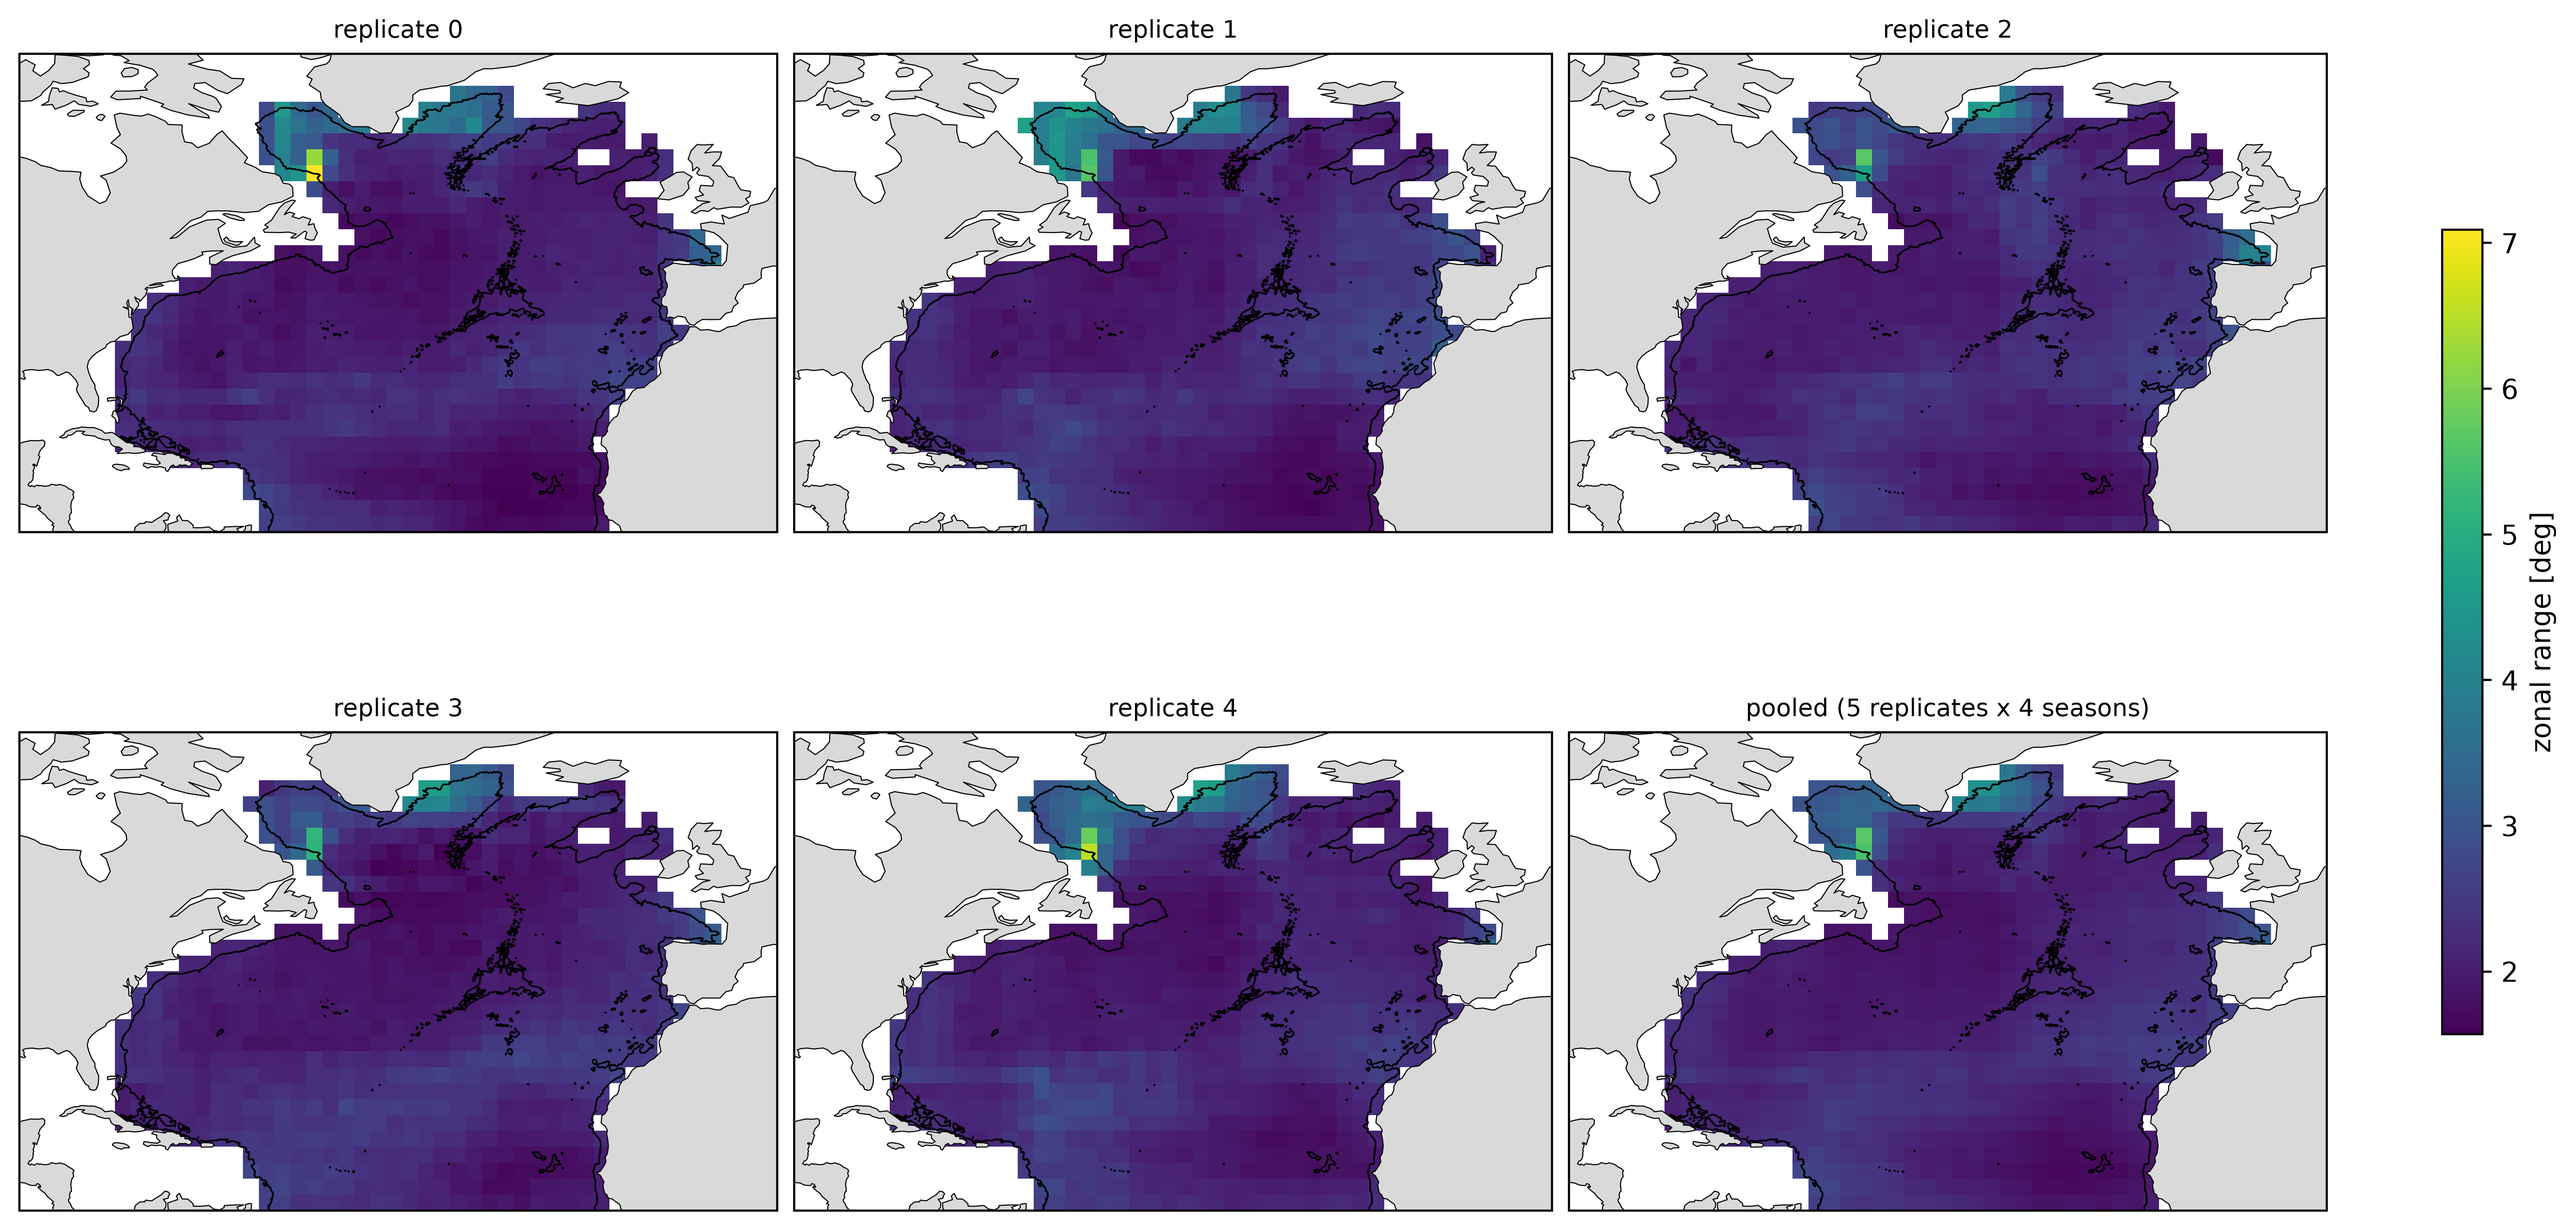
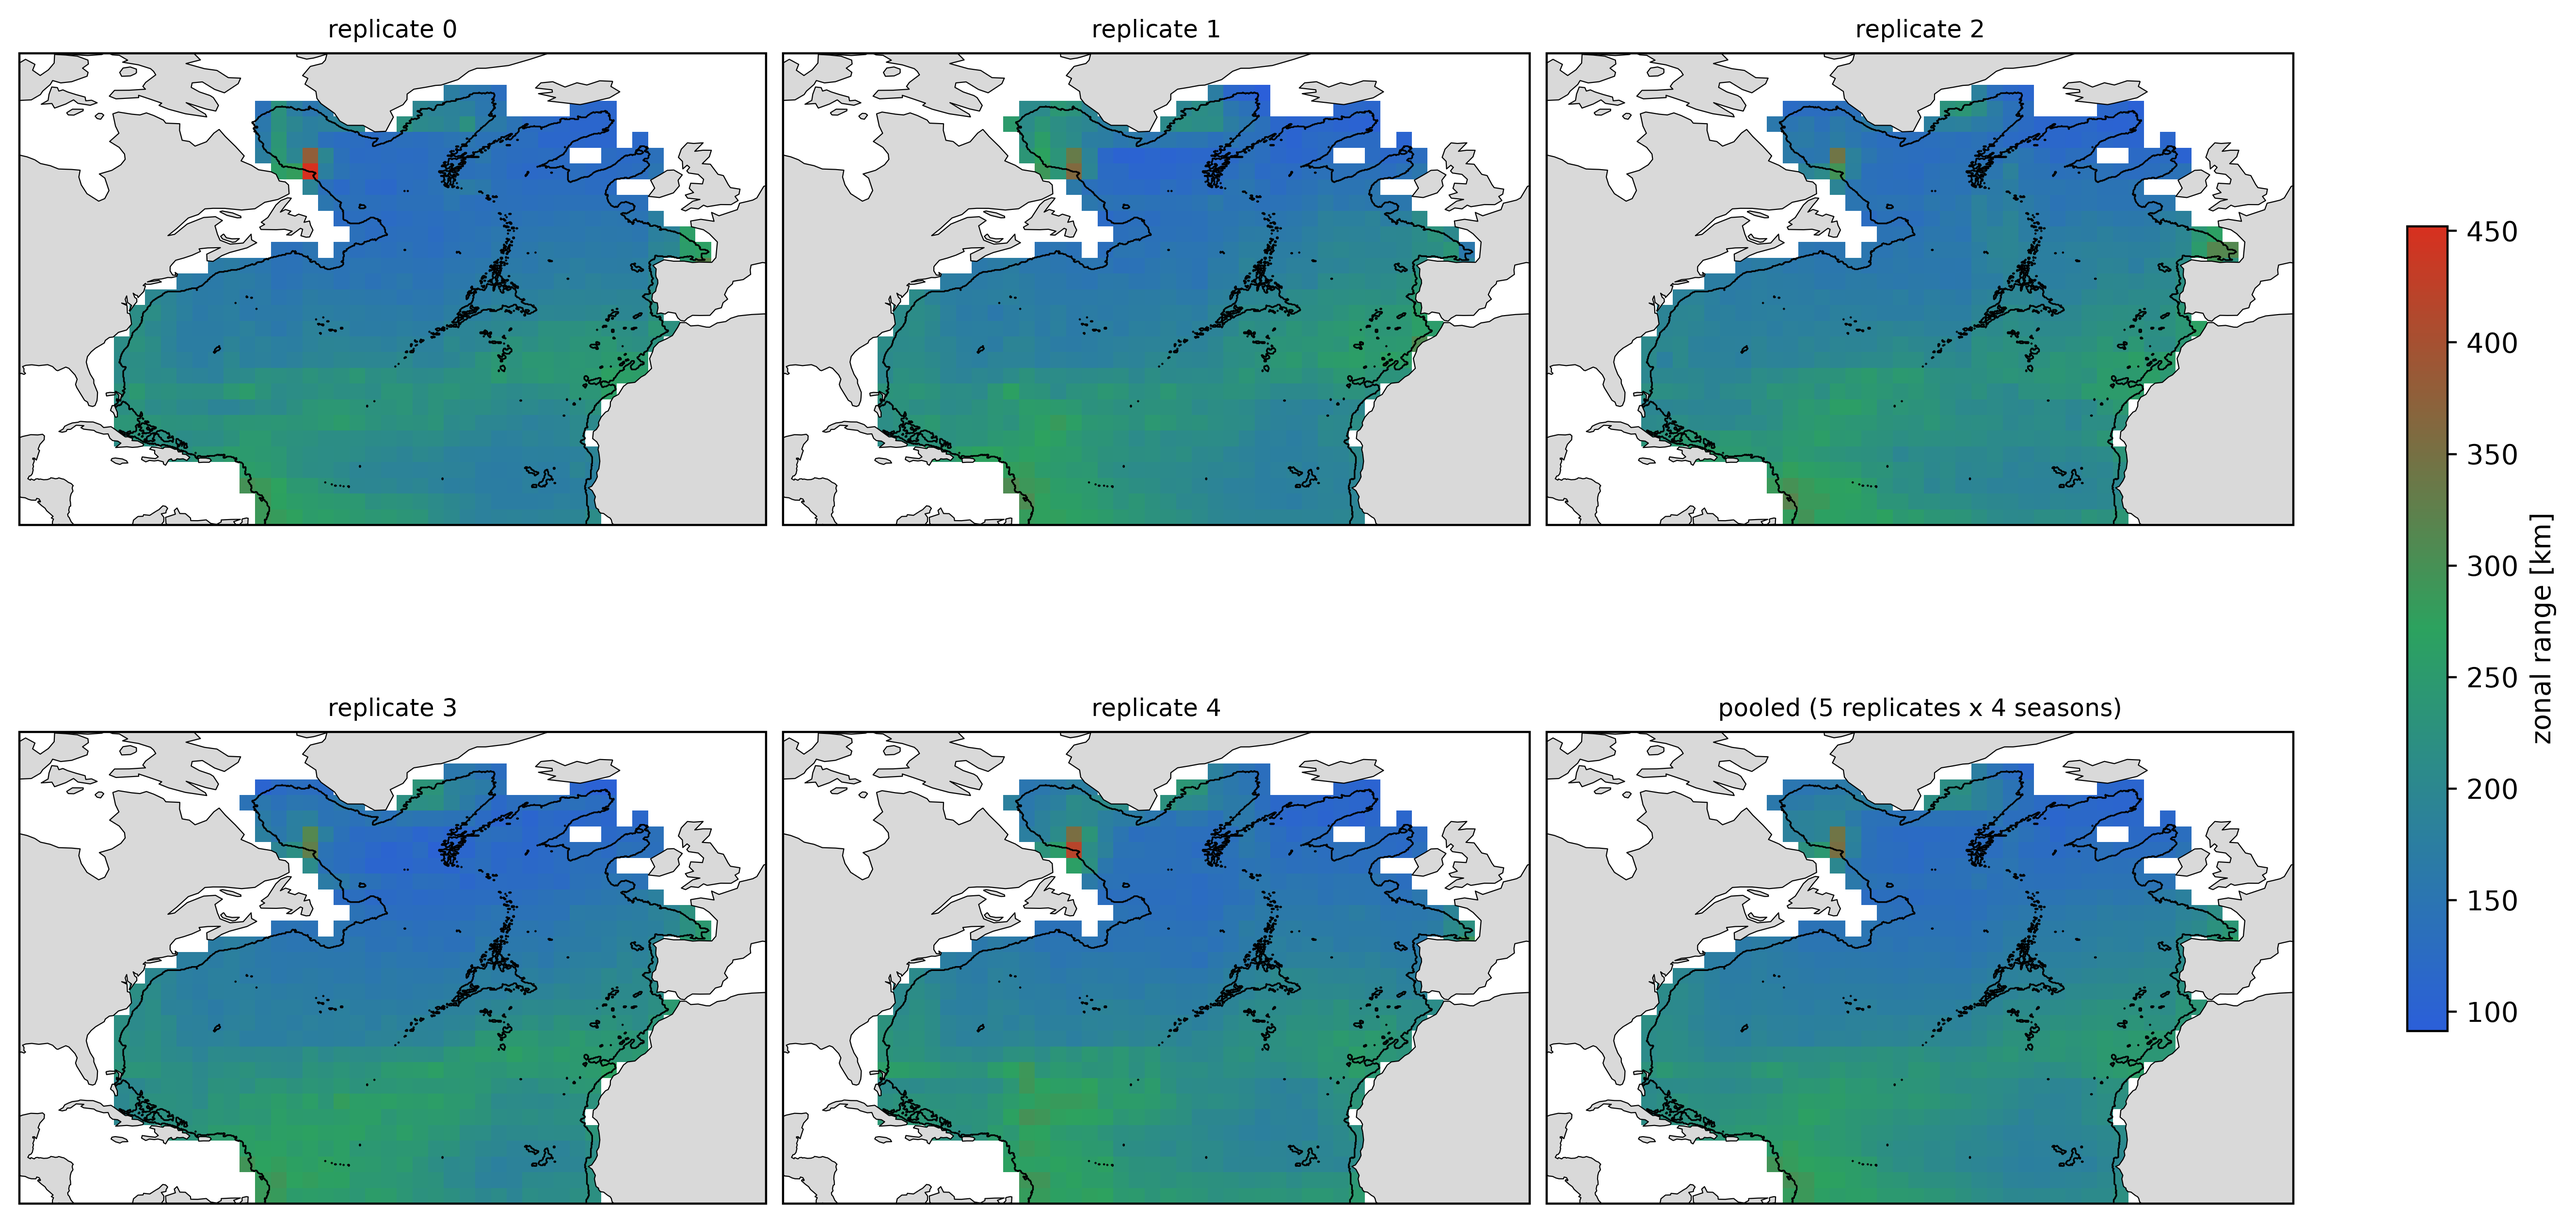
natl_cov: map covariance ranges in km at the cell-centre latitude, blue-green-red colour scale

diff --git a/code/osim/natl_sim.py b/code/osim/natl_sim.py
@@ -571,9 +571,10 @@ def quadrature():
 
 
 COV_PARAMS = ("phi", "th_lon", "th_lat", "th_t")
-COV_LABELS = {"phi": "variance phi [(GJ/m2)^2]", "th_lon": "zonal range [deg]", "th_lat": "meridional range [deg]",
+COV_LABELS = {"phi": "variance phi [(GJ/m2)^2]", "th_lon": "zonal range [km]", "th_lat": "meridional range [km]",
               "th_t": "temporal range [days]"}
 RUNAWAY = {"th_lon": 40.0, "th_lat": 40.0, "th_t": 400.0}   # the bounds of krige_local_fit; beyond them a fit ran away
+KM_PER_DEG = 111.195   # mean Earth radius 6371 km
 
 
 def cov_windows(reps, layer):
@@ -582,14 +583,18 @@ def cov_windows(reps, layer):
                      ignore_index=True)
 
 
-def cov_plugins(reps, layer):
+def cov_plugins(reps, layer, km=False):
     """Plug-ins per 2 deg cell: each replicate's median over seasons, and "pooled", the median over all window fits
-    of all `reps` (seasons x replicates); runaway values (beyond RUNAWAY) set to NaN."""
+    of all `reps` (seasons x replicates); runaway values (beyond RUNAWAY, in deg) set to NaN; `km` converts the ranges
+    at the cell-centre latitude."""
     w = cov_windows(reps, layer)
     d = pd.concat([w.groupby(["rep", "lat", "lon"])[list(COV_PARAMS)].median().reset_index(),
                    w.groupby(["lat", "lon"])[list(COV_PARAMS)].median().reset_index().assign(rep="pooled")])
     for p, ub in RUNAWAY.items():
         d[p] = d[p].where(d[p] <= ub)
+    if km:
+        d["th_lon"] *= KM_PER_DEG * np.cos(np.deg2rad(d.lat))
+        d["th_lat"] *= KM_PER_DEG
     return d
 
 
@@ -599,8 +604,10 @@ def plot_cov(reps, layer, par):
     import cartopy.crs as ccrs
     import cartopy.feature as cfeature
     import matplotlib.pyplot as plt
+    from matplotlib.colors import LinearSegmentedColormap
     la, lo, m, _ = domain()
-    d = cov_plugins(reps, layer)
+    d = cov_plugins(reps, layer, km=True)
+    cmap = LinearSegmentedColormap.from_list("bgr", ["#2b5fd9", "#2ca25f", "#d7301f"])
     srcs = [*reps, "pooled"]
     nc = 3
     fig, ax = plt.subplots(-(-len(srcs) // nc), nc, figsize=(4.4 * nc, 3.5 * -(-len(srcs) // nc)), squeeze=False,
@@ -610,7 +617,7 @@ def plot_cov(reps, layer, par):
         g = d[d.rep.astype(str) == str(src)].pivot(index="lat", columns="lon", values=par)
         lat_e = np.r_[g.index.values - 1, g.index.values[-1] + 1]
         lon_e = np.r_[g.columns.values - 1, g.columns.values[-1] + 1]
-        pc = a.pcolormesh(lon_e, lat_e, g.values, vmin=v0, vmax=v1, cmap="viridis", transform=ccrs.PlateCarree())
+        pc = a.pcolormesh(lon_e, lat_e, g.values, vmin=v0, vmax=v1, cmap=cmap, transform=ccrs.PlateCarree())
         a.contour(lo, la, m.astype(float), levels=[0.5], colors="k", linewidths=0.6, transform=ccrs.PlateCarree())
         a.add_feature(cfeature.LAND, facecolor="0.85", zorder=2)
         a.coastlines(lw=0.4, zorder=3)
@@ -629,7 +636,7 @@ def cov_summary(reps):
     over cells of the between-replicate coefficient of variation, and the count of runaway cells."""
     rows = []
     for layer in LAYER_NAMES:
-        d = cov_plugins(reps, layer)
+        d = cov_plugins(reps, layer, km=True)
         r = d[d.rep != "pooled"]
         for p in COV_PARAMS:
             g = r.groupby(["lat", "lon"])[p]
